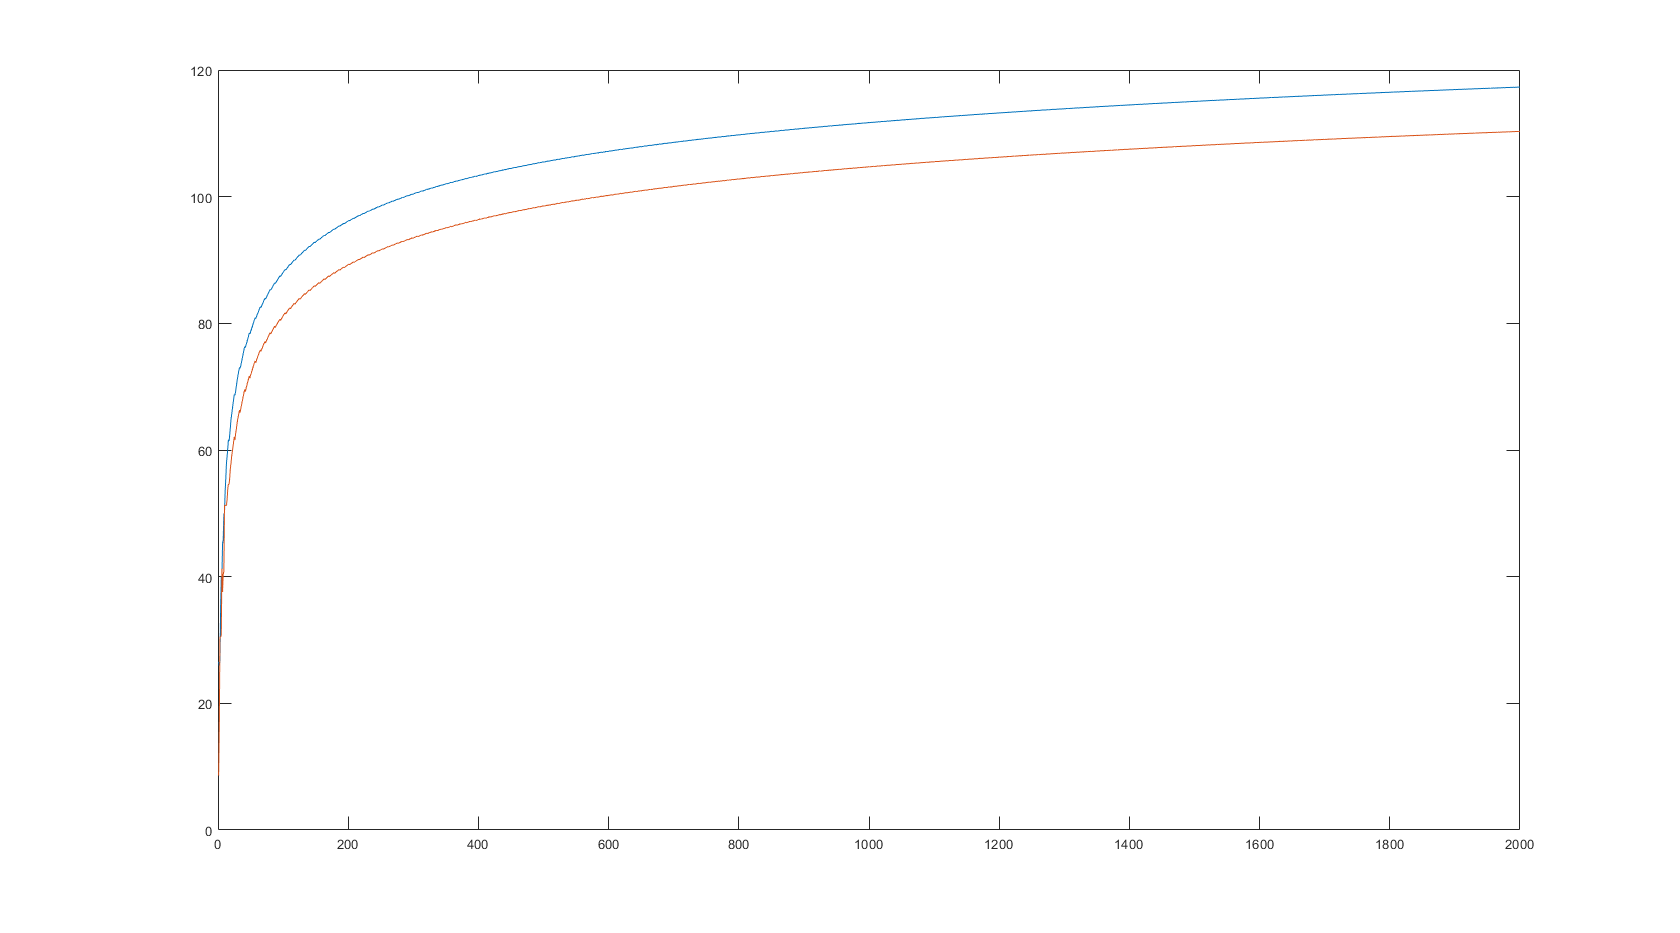
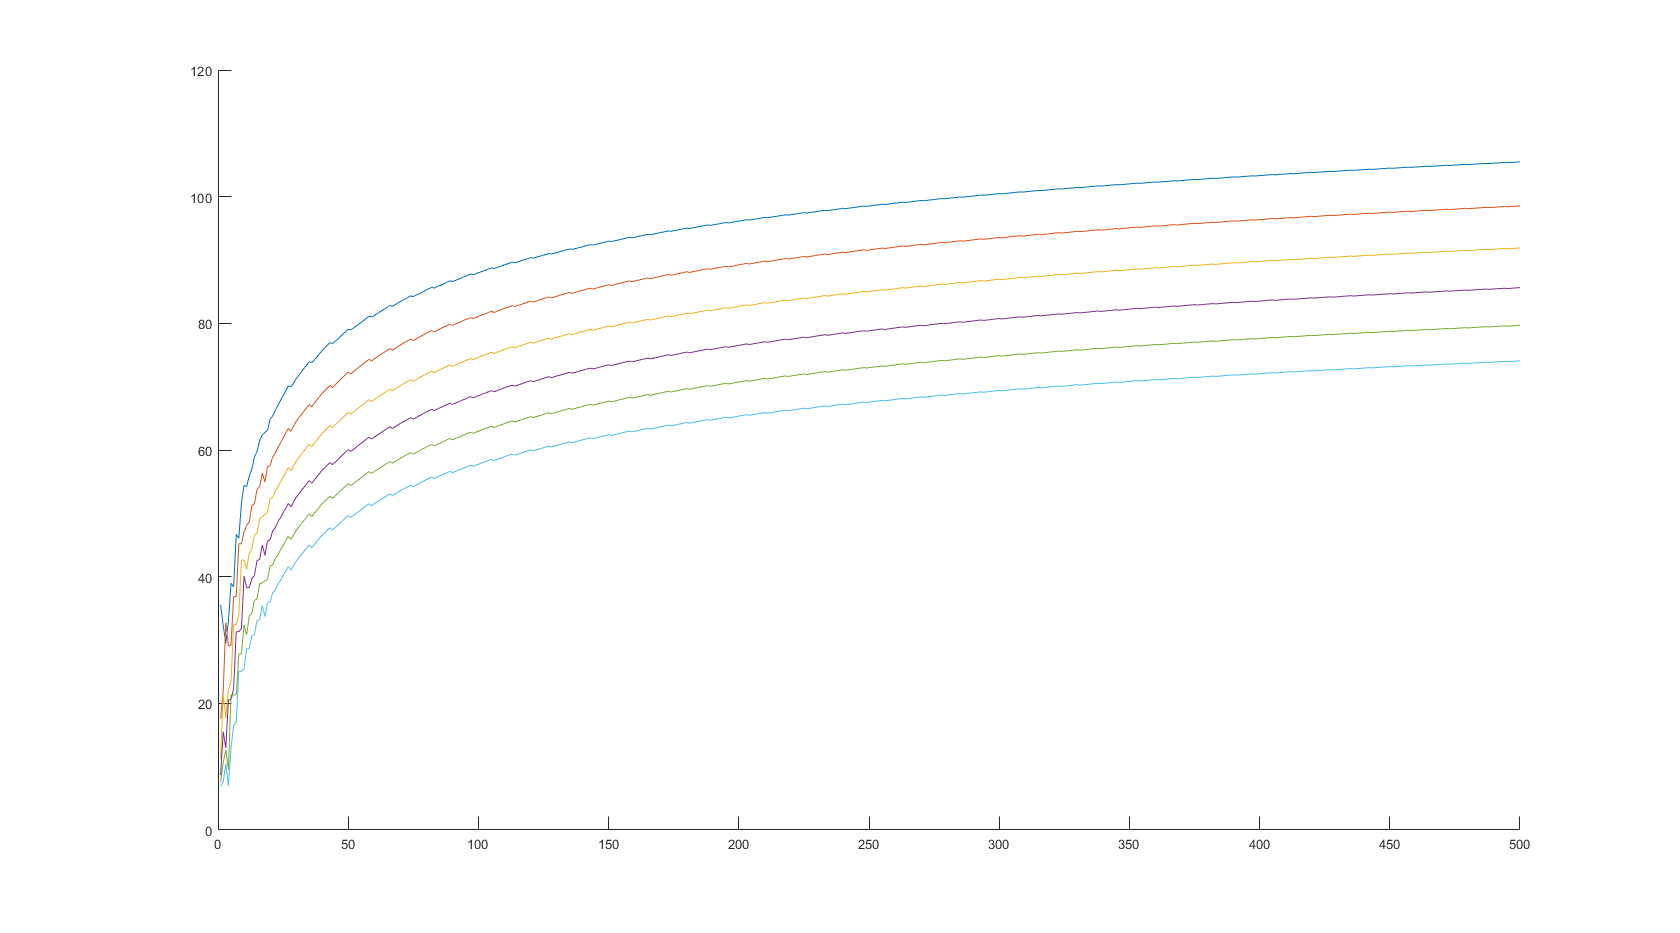
Working Test 1 N6 where decentralized matches centralized

Changed region(s): [[0.1238, 0.4662, 0.1857, 0.8392], [0.65, 0.9014, 0.681, 0.9325]]

diff --git a/EVC_decentral_MBL.m b/EVC_decentral_MBL.m
@@ -1,22 +1,25 @@
 %EVC decentralized PWL
 %Micah Botkin-Levy
 %Spring 2018
-clc;clear all;
+clc;clearvars;
 
 N=6;
 Testnum=1;
-load(fullfile(sprintf('N%d_T%d',N,Testnum),sprintf('EVCscenarioN%d.mat',N))) %generated with EVC_scenario_MBL
+testFolder=sprintf('N%d_T%d',N,Testnum);
+scenarioFile=sprintf('EVCscenarioN%d.mat',N);
+load(fullfile(testFolder,scenarioFile)) %generated with EVC_scenario_MBL
 
 %desired states
 Sn0=SOCmin;
 Kn=FullChargeTime;
 
 %initialize
-lambdaGuess=1;
+lambdaGuess=10;
 lambda0=ones(K+1,1)*lambdaGuess;
 lambda=lambda0;
-alpha=2;
+alpha=.5;
 numIteration=500;
+steps=K+1;
 
 %for step=1:steps
     step=1;
@@ -38,6 +41,9 @@ numIteration=500;
     for p=1:numIteration
         fprintf("iteration step %g of %g....\n",p,numIteration)
         %solve N subproblems
+        
+        tic 
+        %parfor for evInd=1:N
         for evInd=1:N
             %move this elsewhere after (but  need to change as i-->K)
             Qhatn=eye(K+1)*Qsi(evInd);
@@ -67,12 +73,15 @@ numIteration=500;
                 U{p,1}(:,evInd)=un;  %current goes in current time slot
             end
         end
+        toc
         
         %solve coordinator problem
         cvx_begin quiet
             variable z(S*(K+1),1)
             variable xt(K+1,1)
-            minimize (-sum(lambda)*sum(z))
+            %minimize (-sum(lambda)*sum(z))
+            %minimize (-sum(lambda(1:K+1,1))*sum(z(1:S,1)))
+            minimize (-lambda'*Fhat*z)
             subject to
                 (eye(K+1)-AhatT)*xt==AhatT0*T0+VhatT*w+EhatT*z;
                 xt<=Tmax;
@@ -92,9 +101,9 @@ numIteration=500;
         %grad of lagragian
         gradL=sum(U{p,1},2)+Ghat*w-Fhat*z;
         
-        
         %update lambda
         alpha_p = alpha/ceil(p/10);
+        
         %alpha_p=alpha;
         lambda_new=lambda+alpha_p*gradL;
         Lam(:,p)=lambda_new;
@@ -103,25 +112,26 @@ numIteration=500;
 %end
 
 
-figure
-plot(Lam(1,:))
-hold on
-plot(Lam(2,:))
+figure; hold on;
+for ii =25
+    plot(Lam(ii,:))
+end
+% plotName='Lam1';
+%print(fullfile(testFolder,plotName),'-dpng','-r0')
 
-
-figure
+figure;
 lgd=strings(1,N);
 for ii =1:N
     subplot(3,1,1)
     plot(Xn{numIteration,1}(:,ii));
+    hold on;
     ylabel("SOC")
-    %xlim([1 K+1])
-    hold on
+    xlim([1 steps])
     subplot(3,1,2)
     plot(U{numIteration,1}(:,ii));
+    hold on;
     ylabel("Current")
-    %xlim([1 steps])
-    hold on
+    xlim([1 steps])
     lgd(ii)=sprintf("EV%d",ii);
 end
 legend(lgd)
@@ -129,7 +139,8 @@ legend(lgd)
 subplot(3,1,3)
 plot(Xt(:,numIteration))
 ylabel("XFRM Temp (K)")
-%xlim([1 steps])
+xlim([1 steps])
 
-
+plotName='Decentral1';
+%print(fullfile(testFolder,plotName),'-dpng','-r0')
 

diff --git a/EVC_central_MBL.m b/EVC_central_MBL.m
@@ -1,11 +1,13 @@
 %EVC centralized compact PWL
 %Micah Botkin-Levy
 %Spring 2018
-clc;clear all
+clc;clearvars;
 
 N=6;
 Testnum=1;
-load(fullfile(sprintf('N%d_T%d',N,Testnum),sprintf('EVCscenarioN%d.mat',N)))
+testFolder=sprintf('N%d_T%d',N,Testnum);
+scenarioFile=sprintf('EVCscenarioN%d.mat',N);
+load(fullfile(testFolder,scenarioFile))  %generated with EVC_scenario_MBL
 
 %initial states
 x0=[s0;T0];
@@ -95,3 +97,7 @@ subplot(3,1,3)
 plot(X(N+1,:))
 ylabel("XFRM Temp (K)")
 xlim([1 steps])
+
+%plotName='Central1';
+%print(fullfile(testFolder,plotName),'-dpng','-r0')
+
